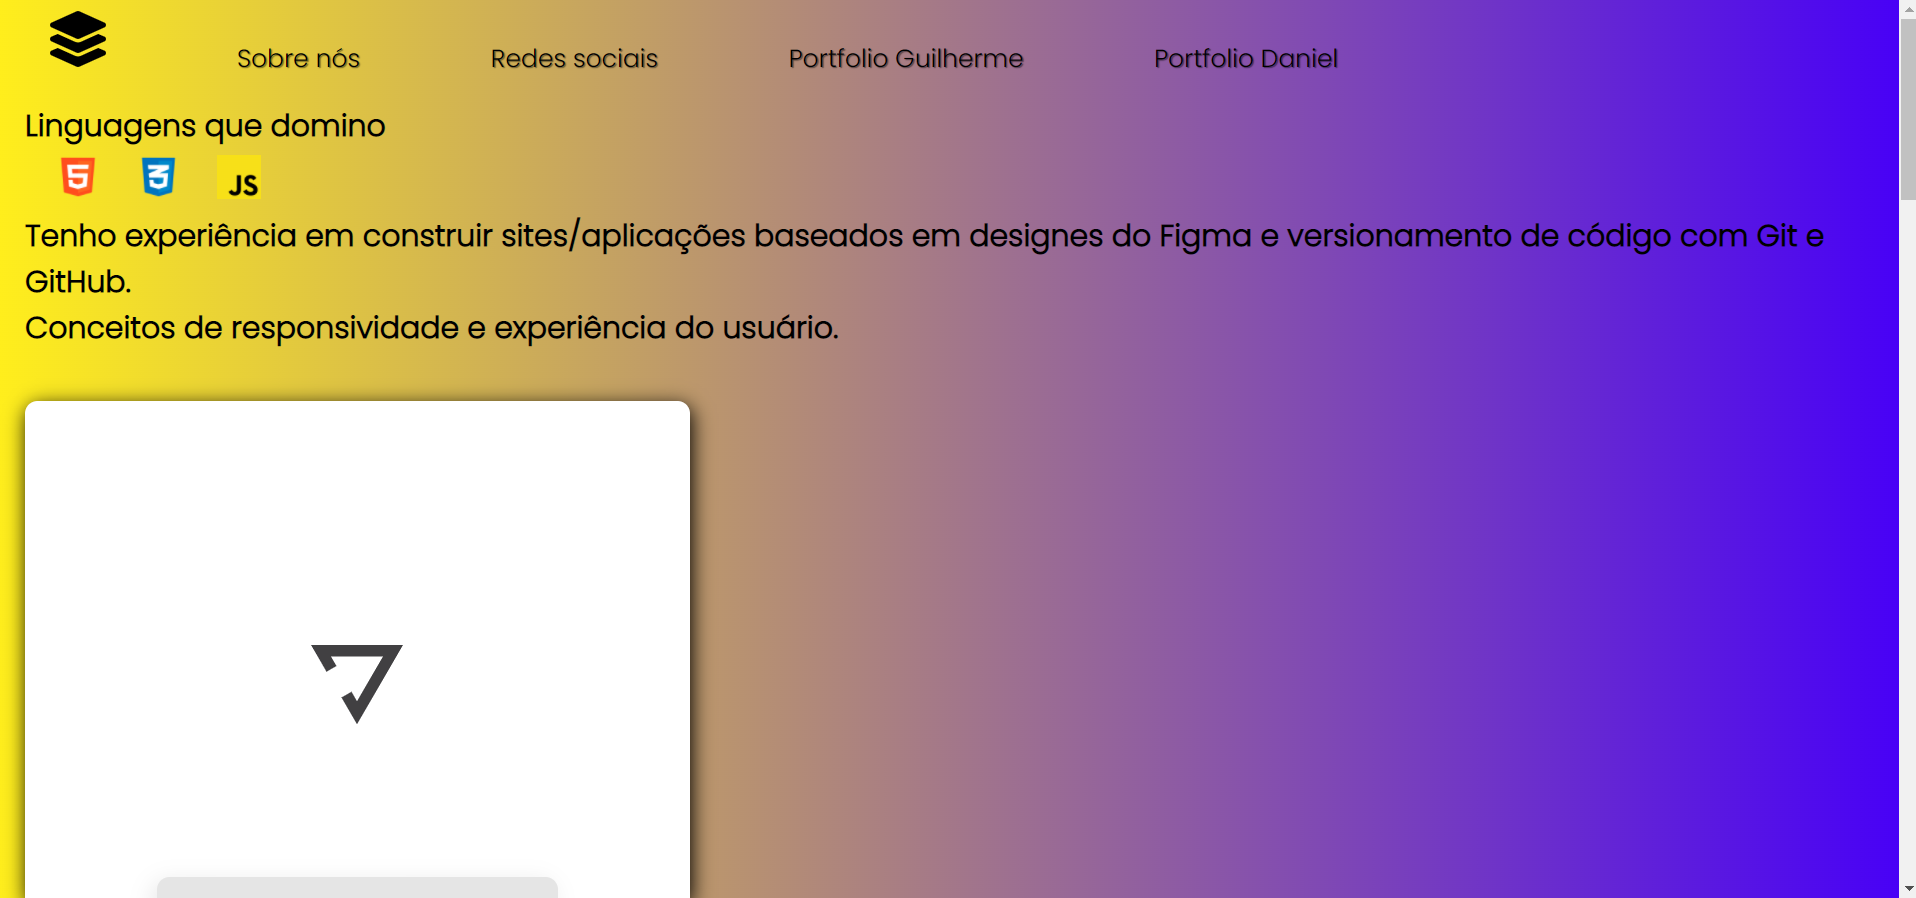
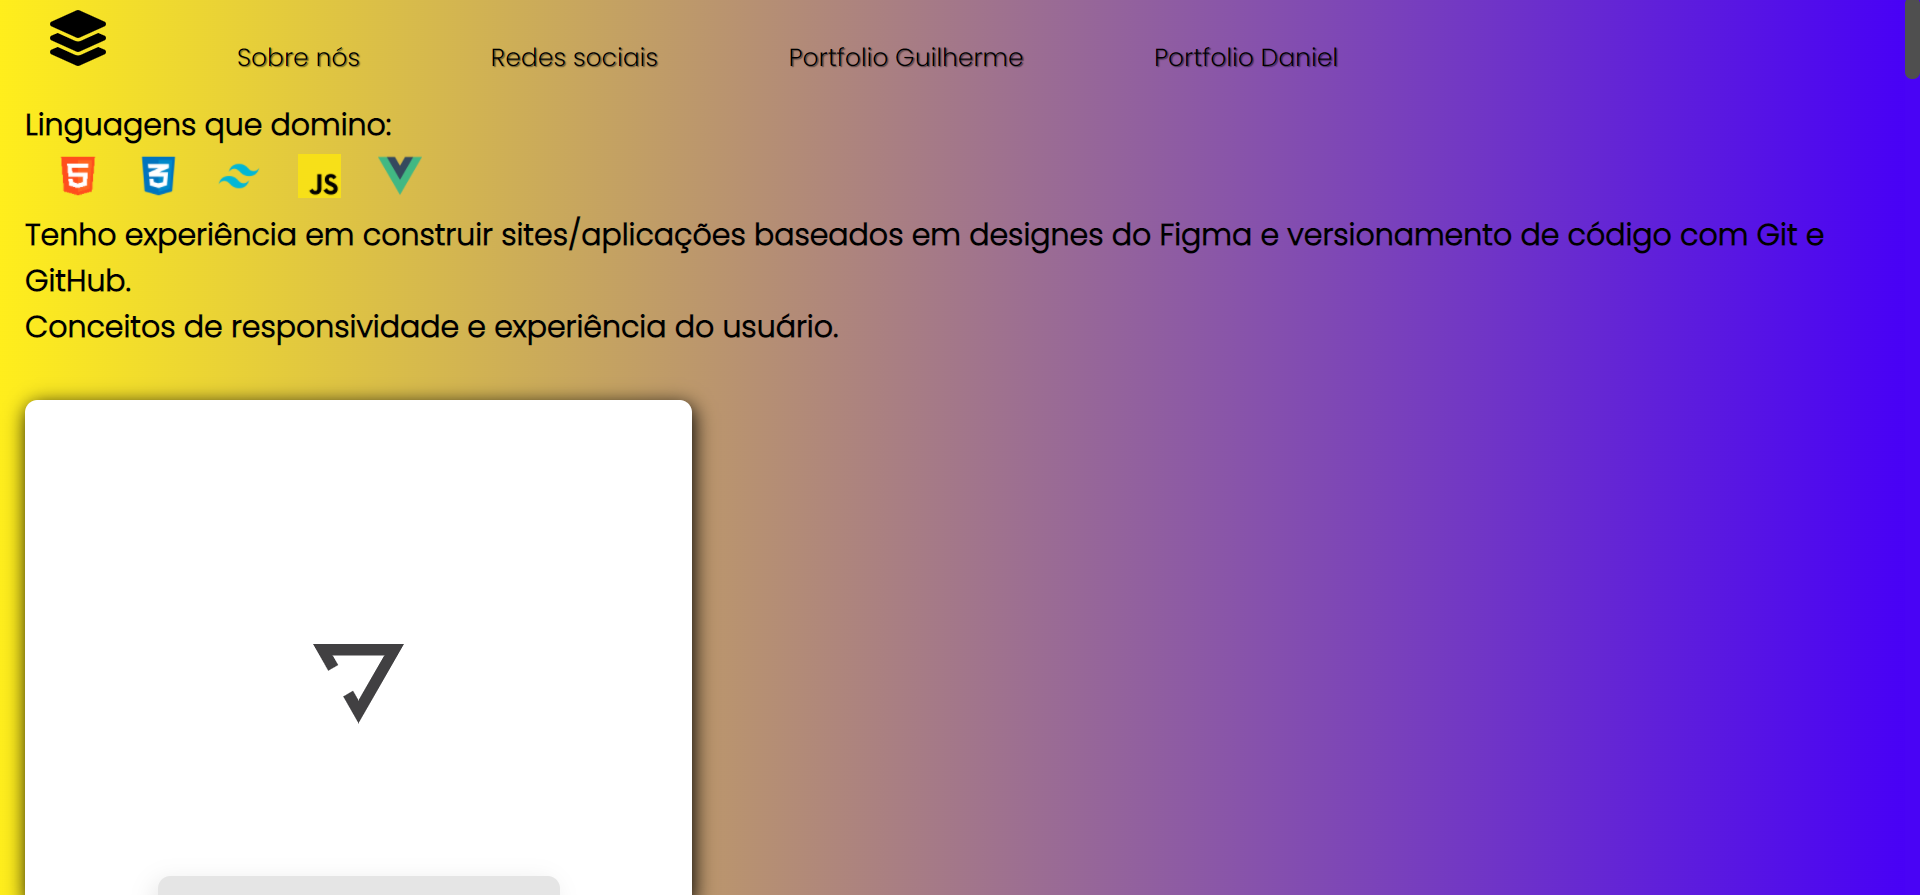
Update portfolio Guilherme

diff --git a/portfolio-guilherme.html b/portfolio-guilherme.html
@@ -27,26 +27,59 @@
         <div id="header">
             <h1>Linguagens que domino:</h1>
             <img src="./assets/logo-html.png" class="logo" alt="Logo-HTML5">
-            <img src="./assets/logo-css.png"  class="logo" alt="Logo-CSS3">
-            <img src="./assets/logo-tailwind.png"   class="logo" alt="Logo-Tailwind.css">
-            <img src="./assets/logo-js.png"   class="logo" alt="Logo-JS">
-            <img src="./assets/logo-vue.png"   class="logo" alt="Logo-Vue.js">
-            <h2 class="experiences">Tenho experiência em construir sites/aplicações baseados em designes do Figma e versionamento de código com Git e GitHub.<br>
+            <img src="./assets/logo-css.png" class="logo" alt="Logo-CSS3">
+            <img src="./assets/logo-tailwind.png" class="logo" alt="Logo-Tailwind.css">
+            <img src="./assets/logo-js.png" class="logo" alt="Logo-JS">
+            <img src="./assets/logo-vue.png" class="logo" alt="Logo-Vue.js">
+            <h2 class="experiences">Tenho experiência em construir sites/aplicações baseados em designes do Figma e
+                versionamento de código com Git e GitHub.<br>
                 Conceitos de responsividade e experiência do usuário.</h2>
         </div>
 
         <div>
-            <iframe class="Iframe-Guilherme" name="Login interface" src="https://gui1703.github.io/Interface-de-login/" alt="login interface"></iframe>
+            <iframe class="Iframe-Guilherme" name="Login interface" src="https://gui1703.github.io/Interface-de-login/"
+                alt="login interface"></iframe>
             <h3 class="description">Login interface<br>
                 A small screen device login interface.</h3>
-                
-            <iframe class="Iframe-Guilherme" name="Form" src="https://gui1703.github.io/Formulario/" alt="Basic form made in HTML and CSS (Didactic)"></iframe>
+
+            <iframe class="Iframe-Guilherme" name="Form" src="https://gui1703.github.io/Formulario/"
+                alt="Basic form made in HTML and CSS (Didactic)"></iframe>
             <h3 class="description" class="quite">Basic form made in HTML and CSS (Didactic)</h3>
 
-            <iframe class="Iframe-Guilherme" name="to-do list" src="https://gui1703.github.io/Lista-de-Tarefas/" alt="to-do list"></iframe>
+            <iframe class="Iframe-Guilherme" name="to-do list" src="https://gui1703.github.io/To-do-list/"
+                alt="to-do list"></iframe>
             <h3 class="description" class="description_">To-do list<br>
                 A list where you can add and delete your task.</h3>
+
+            <iframe class="Iframe-Guilherme" name="Happy New Year" src="https://gui1703.github.io/Happy-New-Year/"
+                alt="Happy New Year"></iframe>
+            <h3 class="description" class="description_">Happy New Year<br>
+                A simple and beautiful New Year's screen</h3>
+
+            <iframe class="Iframe-Guilherme" name="WhatsApp" src="https://clone-whats-app.netlify.app"
+                alt="WhatsApp"></iframe>
+            <h3 class="description" class="description_">Clone of my WhatsApp profile <br>
+                Clone of my Front-End WhatsApp profile using Vue.js<br> framework for related experiences (mobile
+                version).</h3>
+
+            <iframe class="Iframe-Guilherme" name="Don's Burger" src="https://donsburger.netlify.app"
+                alt="Don's Burger"></iframe>
+            <h3 class="description" class="description_">Menu Web Project<br>
+                Project developed with the programming language<br> (Vue.js and TailwindCSS). Customers choose their
+                meal
+                and order via<br> WhatsApp from the cafeteria (Mobile version).</h3>
+
+            <iframe class="Iframe_Larger" name="Missao Programacao do zero"
+                src="https://gui1703.github.io/Missao-Programacao-do-Zero/" alt="Missao Programacao do zero"></iframe>
+            <h3 class="description2" class="description_">Dev Contábil<br>
+                Project developed with HTML, CSS and JavaScript for accounting firm (Desktop version).</h3>
+
+            <iframe class="Iframe_Larger" name="Google glass" src="https://gui1703.github.io/Google-Glass/index.html"
+                alt="Google glass"></iframe>
+            <h3 class="description2" class="description_">Google Glass<br>
+                Google Glass project developed throughout the course, Video Course (Desktop version).</h3>
         </div>
     </section>
 </body>
+
 </html>

diff --git a/styles.css b/styles.css
@@ -284,6 +284,16 @@ nav {
     filter: drop-shadow(2px 4px 8px #000000);
 }
 
+.Iframe_Larger {
+    display: block;
+    margin-top: 40px;
+    margin-left: 20px;
+    width: 98%;
+    height: 500px;
+    border: none;
+    border-radius: 10px;
+    filter: drop-shadow(2px 4px 8px #000000);
+}
 .Iframe_Daniel {
     display: block;
     margin-top: 40px;

diff --git a/README.md b/README.md
@@ -19,6 +19,11 @@
 <img src="./assets/Print six.png"   alt="Guilherme's Portfolio Photo">
 <img src="./assets/Print seven.png" alt="Guilherme's Portfolio Photo">
 <img src="./assets/Print eight.png" alt="Guilherme's Portfolio Photo">
+<img src="./assets/Print eight1.png" alt="Guilherme's Portfolio Photo">
+<img src="./assets/Print eight2.png" alt="Guilherme's Portfolio Photo">
+<img src="./assets/Print eight3.png" alt="Guilherme's Portfolio Photo">
+<img src="./assets/Print eight4.png" alt="Guilherme's Portfolio Photo">
+<img src="./assets/Print eight5.png" alt="Guilherme's Portfolio Photo">
 
 > Added Guilherme's Portfolio to the project.
 
@@ -66,7 +71,7 @@ The project is still under development and future updates will focus on the foll
 - [x] Guilherme's Portfolio.
 - [x] Daniel's portfolio.
 - [x] Create responsiveness.
-- [ ] Portfolio in constant update.
+- [x] Portfolio in constant update.
 <br>
 [Portfolio](https://gui1703.github.io/Portfolio/) - Project Portfolio where the recruiter can analyze our knowledge and the projects made. The projects interact with the user without leaving the portfolio.
 
